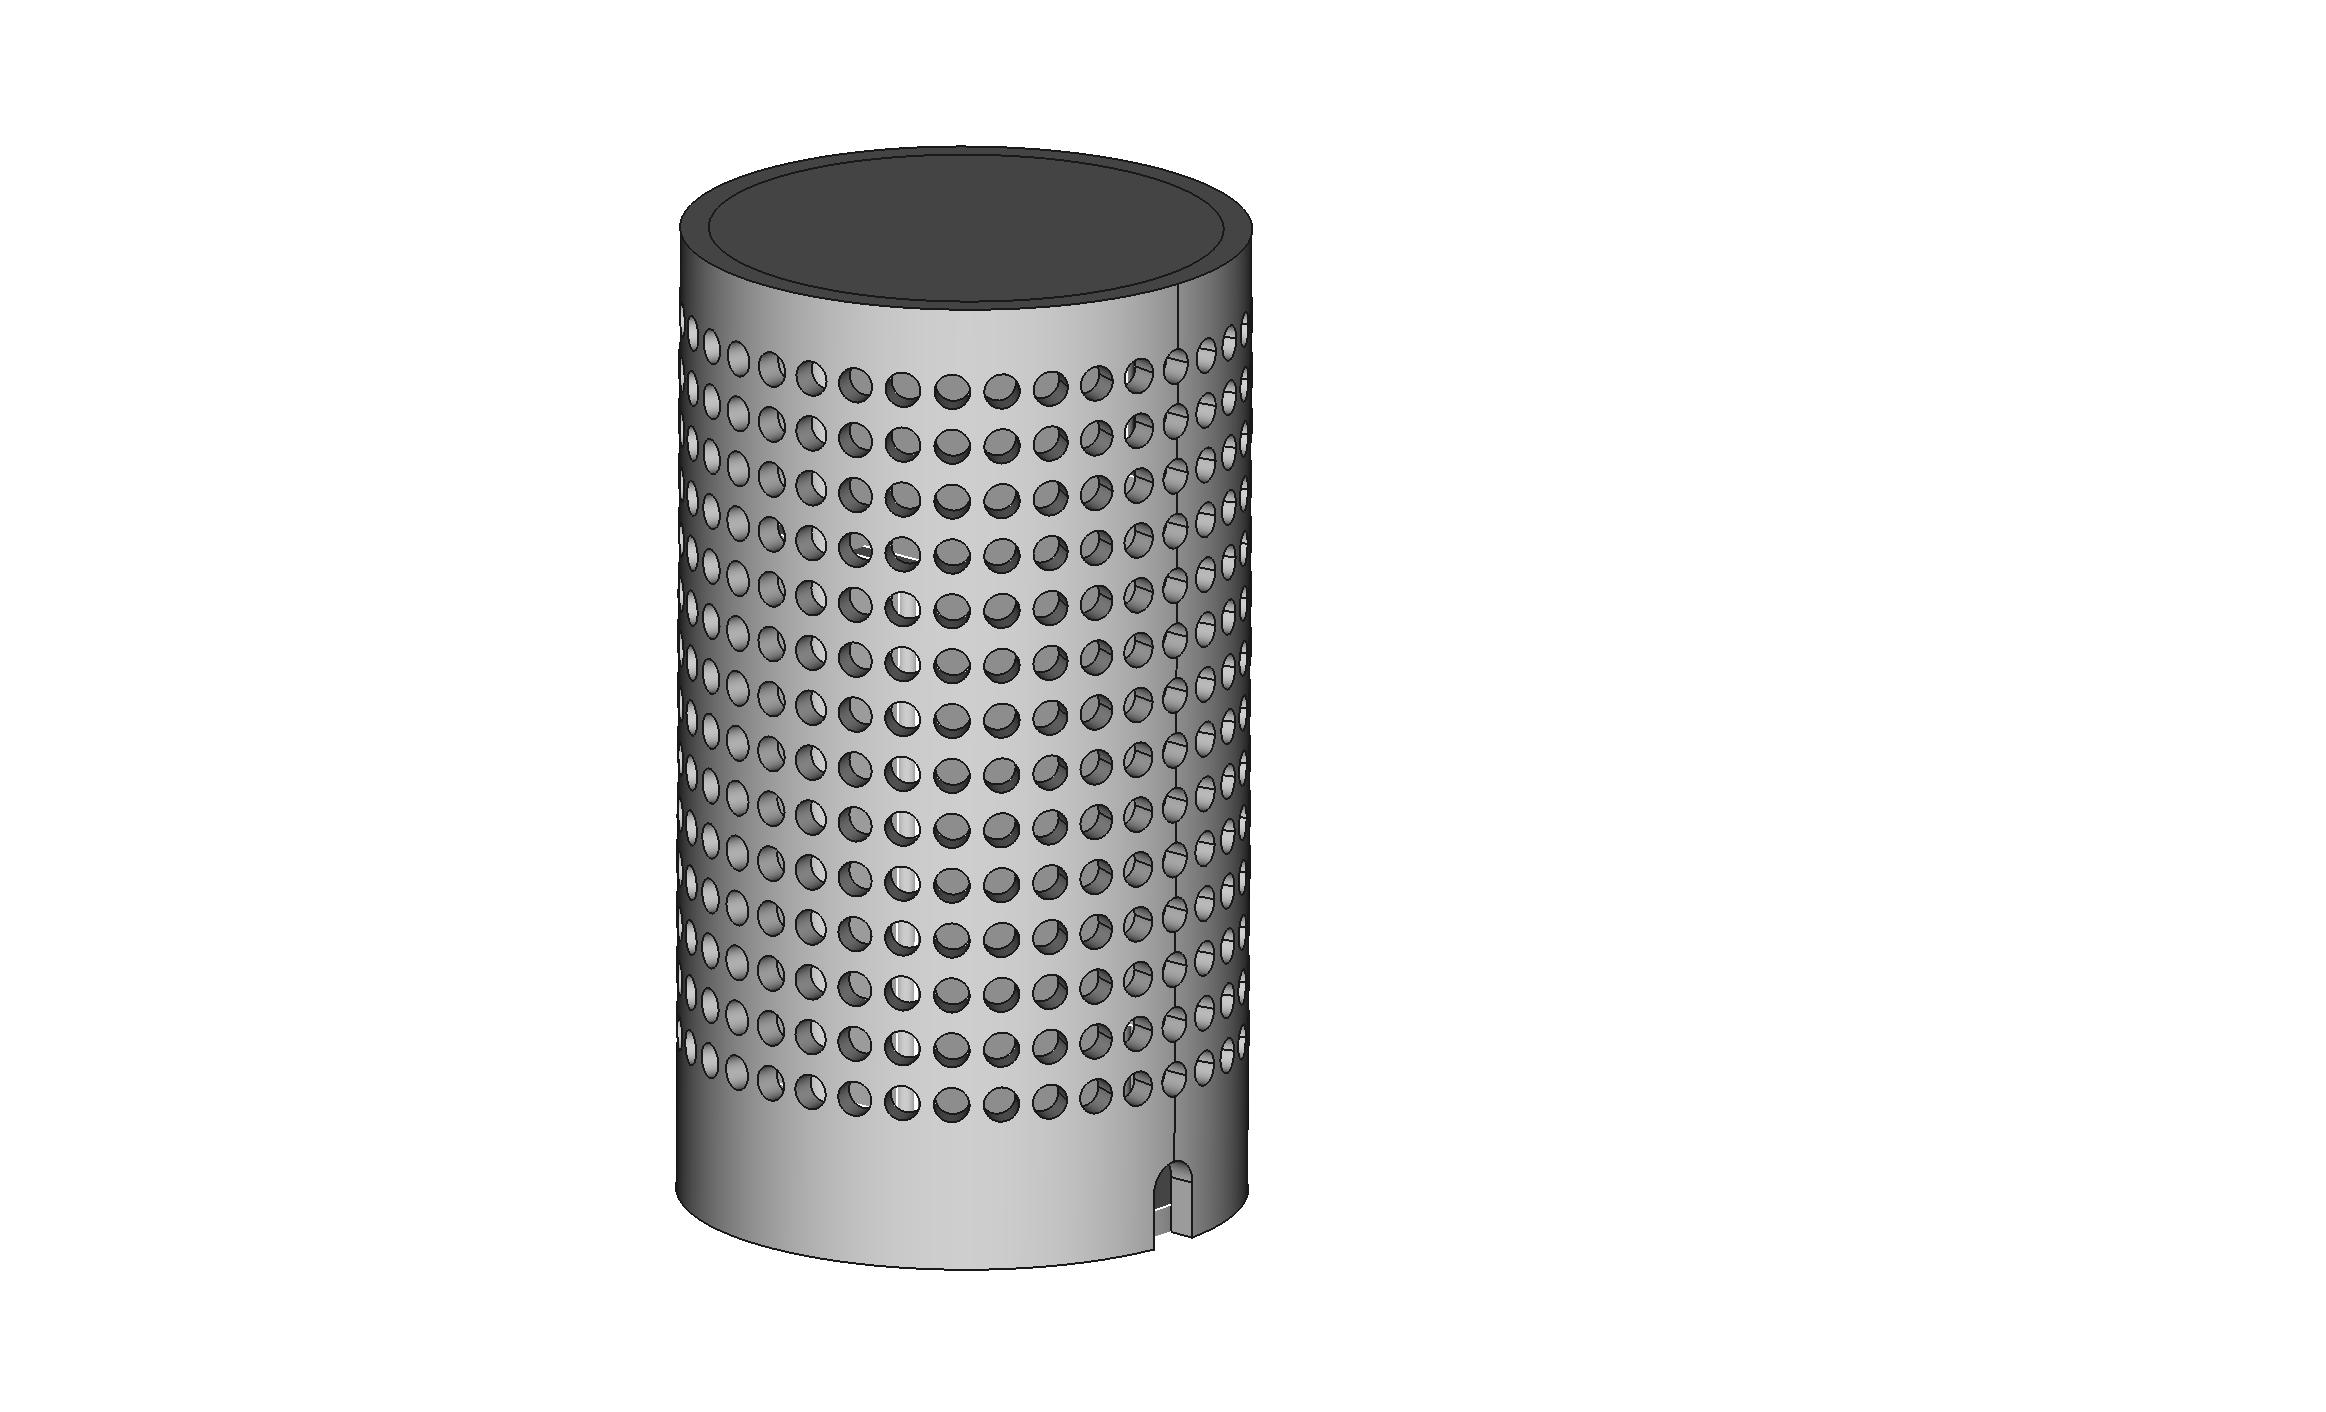
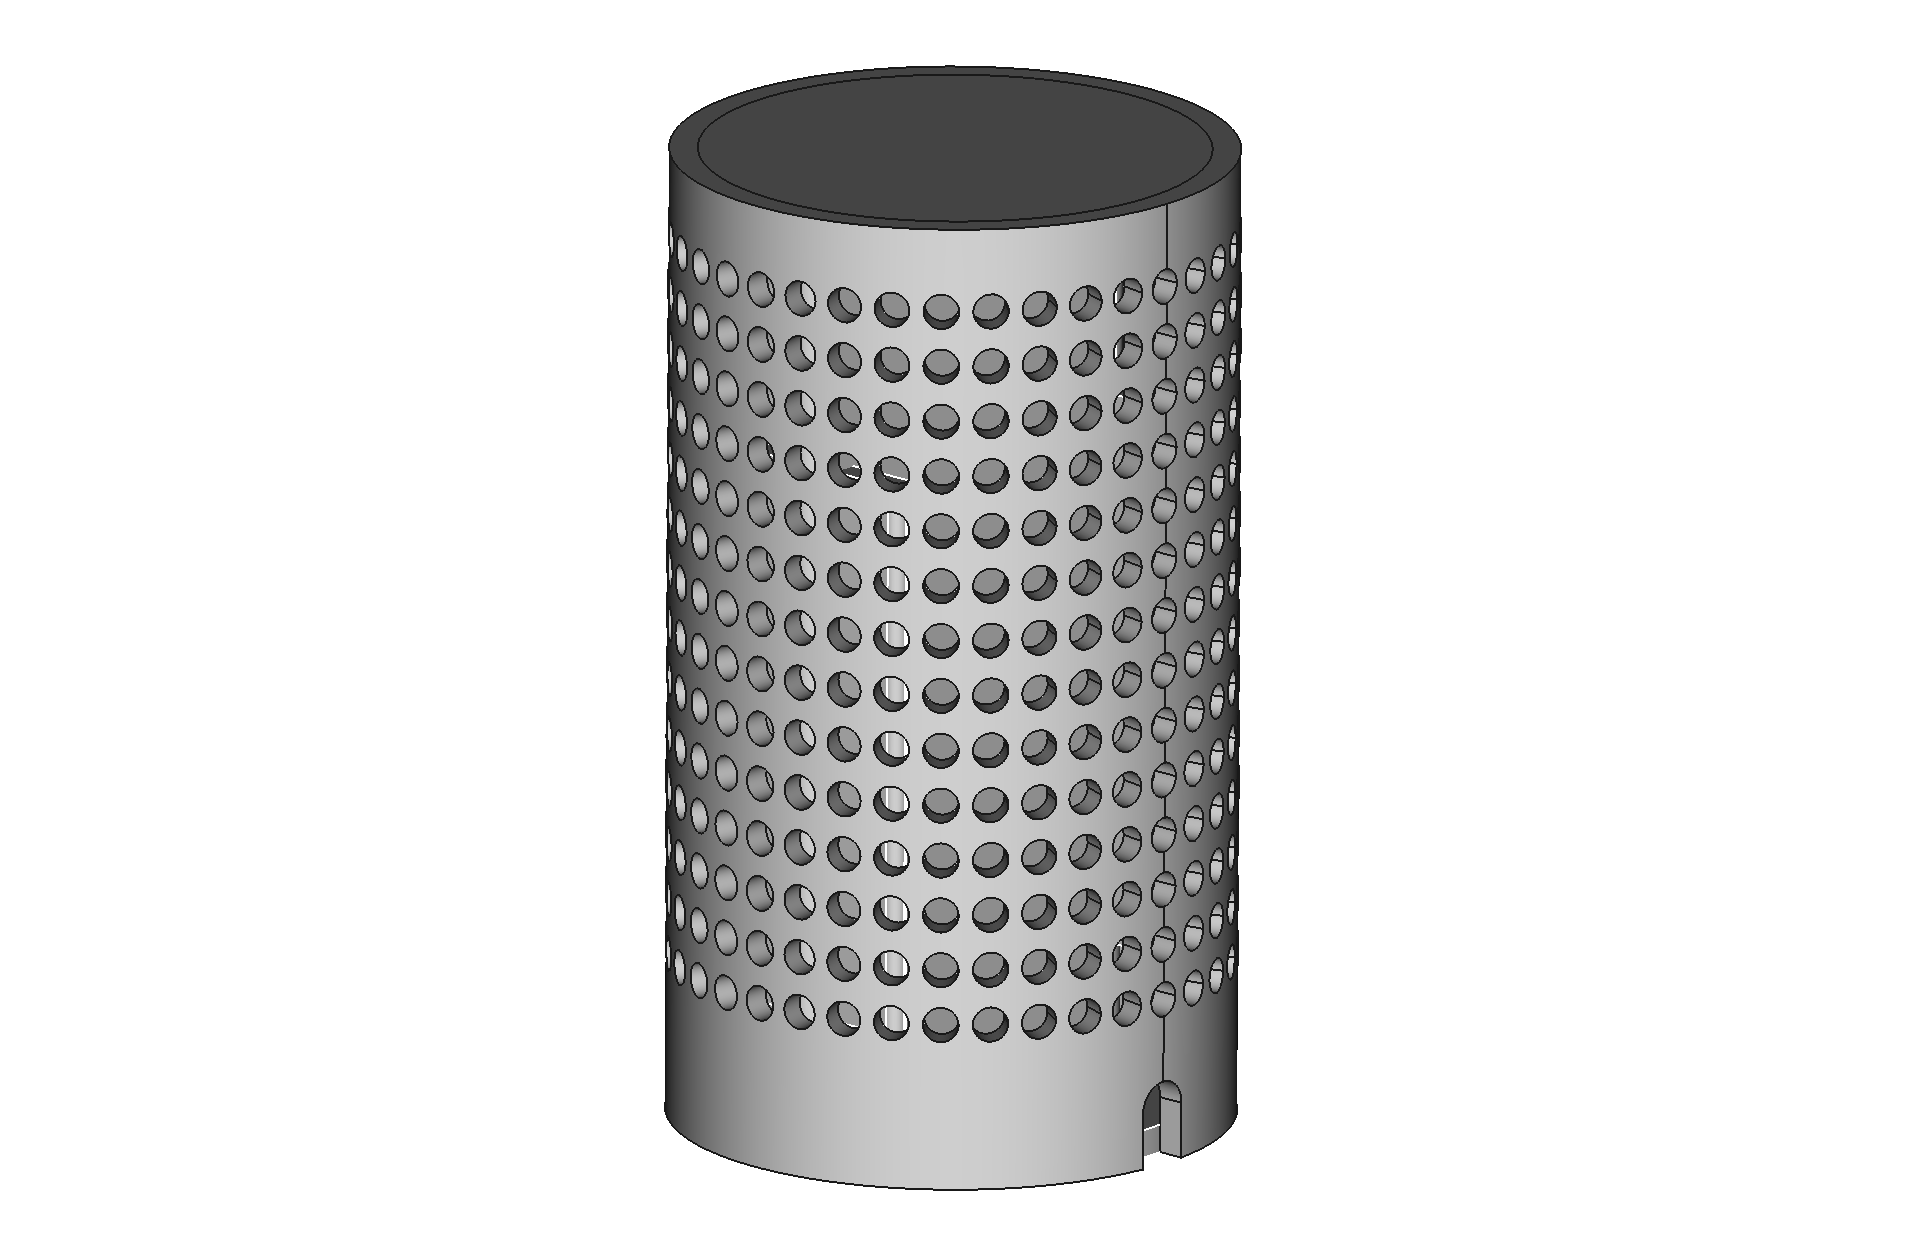
Add SCD30 case information to the README

Changed region(s): [[0.2799, 0.031, 0.6532, 0.961]]

diff --git a/README.md b/README.md
@@ -4,11 +4,17 @@ A 3D printable case for Sensirion SCD-41 CO2 sensor, QT Py ESP32, and Nokia batt
 
 <img src="images/co2-sensor-case-v2-freecad.png" width="60%"><img src="images/co2-sensor-case-v2-preview.png" width="35%">
 
-<img src="images/co2-sensor-case-top.jpg" width="20%"><img src="images/co2-sensor-case-bottom.jpg" width="20%"><img src="images/co2-sensor-case-open.jpg" width="20%"><img src="images/co2-sensor-case-phone.jpg" width="20%">
+<img src="images/co2-sensor-case-top.jpg" width="20%"> <img src="images/co2-sensor-case-bottom.jpg" width="20%"> <img src="images/co2-sensor-case-open.jpg" width="20%"> <img src="images/co2-sensor-case-phone.jpg" width="20%">
 
 ## Design files
 
 I first mocked up the layout in 2D using InDesign, then moved into [FreeCAD](https://www.freecadweb.org) for the 3D design.
+
+### SCD30 sensor case
+
+I've also made an alternative case for the SCD30 CO2 sensor and Sparkfun Thing ESP32 - see `v3`.
+
+<img src="images/co2-sensor-case-v3-freecad.png" width="100%">
 
 ## Related projects
 
